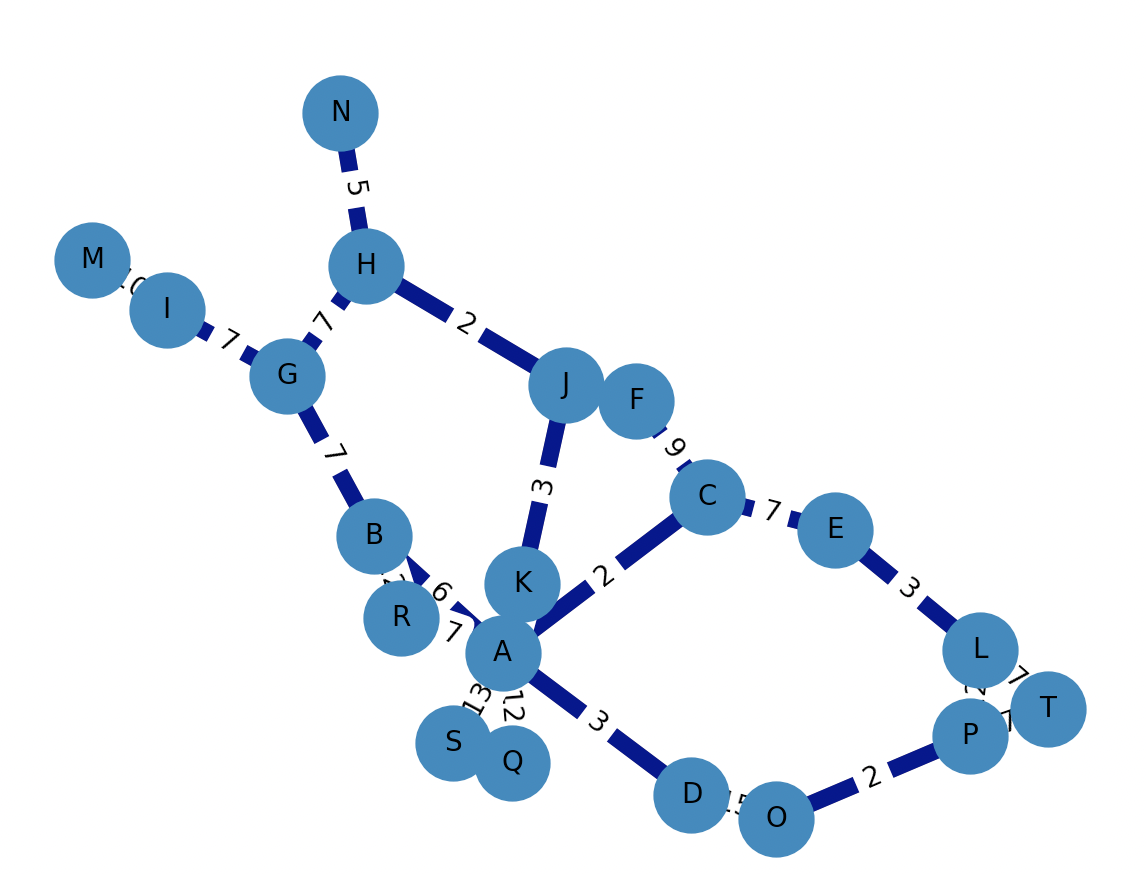
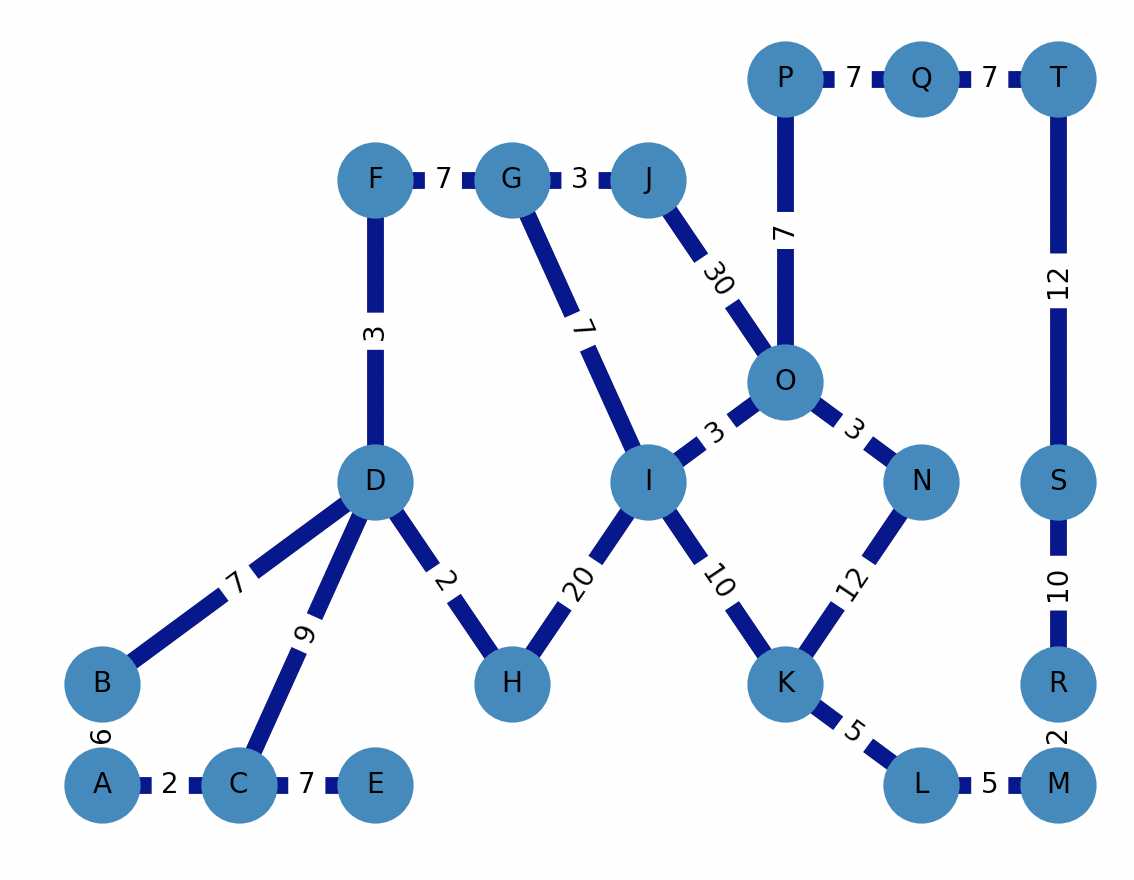
Solved dijkstra

Changed region(s): [[0.0309, 0.0309, 0.9877, 0.9886]]

diff --git a/dijkstra.py b/dijkstra.py
@@ -3,75 +3,82 @@ import matplotlib.pyplot as plt
 import pprint
 import json
 
-#use the single source dijkstras inbuilt function 
-
 
 #create an empty, undirected graph
 G = nx.Graph()
 
 #add nodes 
 
-nodes = ["A","B", "C","D","E","F","G","H","I","J","K","L","M","N","O","P","Q","R","S","T"]
+nodes = [["A", 1, 1],["B", 1, 2],["C", 2, 1],["D", 3, 4],["E", 3, 1],["F", 3, 7],["G", 4, 7],["H", 4, 2],["I", 5, 4],["J", 5, 7],["K", 6, 2],["L", 7, 1],["M", 8, 1],["N", 7, 4],["O", 6, 5],["P", 6, 8],["Q", 7, 8],["R", 8, 2],["S", 8, 4],["T", 8, 8]]
+
 
 for node in nodes:
-    G.add_node(node)
+    G.add_node(node[0], pos = (node[1], node[2]))
 
 
 edges = [
     ["A", "B", 6],
     ["A", "C", 2],
     ["C", "E", 7],
-    ["C", "F", 9],
-    ["A", "D", 3],
-    ["B", "G", 7],
-    ["G", "H", 7],
+    ["C", "D", 9],
+    ["B", "D", 7],
+    ["D", "F", 3],
+    ["F", "G", 7],
     ["G", "I", 7],
-    ["H", "J", 2],
-    ["F", "J", 20],
-    ["J", "K", 3],
-    ["A", "K", 30],
-    ["E", "L", 3],
-    ["I", "M", 10],
-    ["N", "H", 5],
-    ["D", "O", 15],
-    ["P", "O", 2],
-    ["L", "P", 12],
-    ["A", "Q", 12],
-    ["B", "R", 12],
-    ["A", "S", 13],
-    ["T", "P", 7],
-    ["L", "T", 7],
-    ["A", "R", 7],
-    ["S", "Q", 1],
+    ["D", "H", 2],
+    ["H", "I", 20],
+    ["G", "J", 3],
+    ["J", "O", 30],
+    ["I", "O", 3],
+    ["I", "K", 10],
+    ["K", "L", 5],
+    ["L", "M", 5],
+    ["M", "R", 2],
+    ["R", "S", 10],
+    ["S", "T", 12],
+    ["K", "N", 12],
+    ["O", "N", 3],
+    ["O", "P", 7],
+    ["P", "Q", 7],
+    ["Q", "T", 7],
 ]
 
 for pair in edges:
     G.add_edge(pair[0], pair[1], weight = int(pair[2]))
 
+def solution (G: nx.Graph) -> nx.Graph:
+    solution = nx.single_source_dijkstra(G, "A", "T")
+    print("The shortest path from Point A to Point T is: ")
+    print(solution)
+    return solution
 
+solution(G)
 
 #visualization: 
 #Source: https://networkx.org/documentation/stable/auto_examples/drawing/plot_weighted_graph.html
 
-pos = nx.spring_layout(G)  # positions for all nodes - seed for reproducibility
+#pos = nx.spring_layout(G)  # positions for all nodes - seed for reproducibility
 
 # nodes
-nx.draw_networkx_nodes(G, pos, node_size=700)
+nx.draw_networkx_nodes(G, pos = nx.get_node_attributes(G,'pos'), node_size=700)
 
 # edges
-nx.draw_networkx_edges(G, pos, width=6)
+nx.draw_networkx_edges(G, pos = nx.get_node_attributes(G,'pos'), width=6)
 nx.draw_networkx_edges(
-    G, pos, width=6, alpha=0.5, edge_color="b"
+    G, pos = nx.get_node_attributes(G,'pos'), width=6, alpha=0.5, edge_color="b"
 )
 
 # node labels
-nx.draw_networkx_labels(G, pos, font_size=10, font_family="sans-serif")
+nx.draw_networkx_labels(G, pos = nx.get_node_attributes(G,'pos'), font_size=10, font_family="sans-serif")
 # edge weight labels
 edge_labels = nx.get_edge_attributes(G, "weight")
-nx.draw_networkx_edge_labels(G, pos, edge_labels)
+nx.draw_networkx_edge_labels(G, pos = nx.get_node_attributes(G,'pos'), edge_labels=edge_labels)
 
 ax = plt.gca()
 ax.margins(0.08)
 plt.axis("off")
 plt.tight_layout()
 plt.show()
+
+
+

diff --git a/index.md b/index.md
@@ -193,13 +193,22 @@ plt.show()
 **Solution code:**
 
 ```python
+def solution (G: nx.Graph) -> nx.Graph:
+    solution = nx.shortest_path(G, source="A", target="T", method='dijkstra')
+    length = nx.shortest_path_length(G, source="A", target="T")
+    print("The shortest path from Point A to Point T is: ")
+    print(solution)
+    print(length)
+    return solution
+
+solution(G)
 
 ```
 
 **Output**
 
 ```
-
+['A', 'D', 'O', 'P', 'T']
 ```
 
 **Interpretation of Results**:
